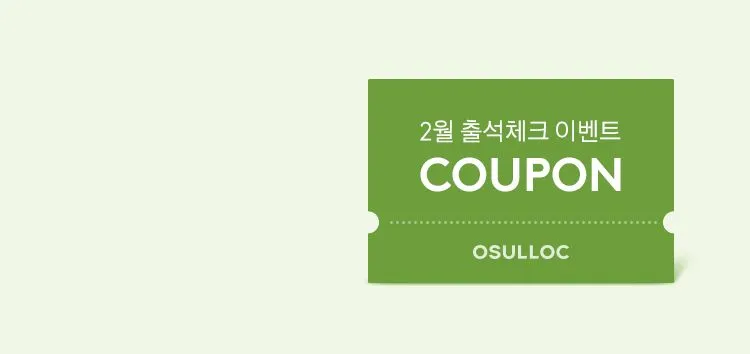
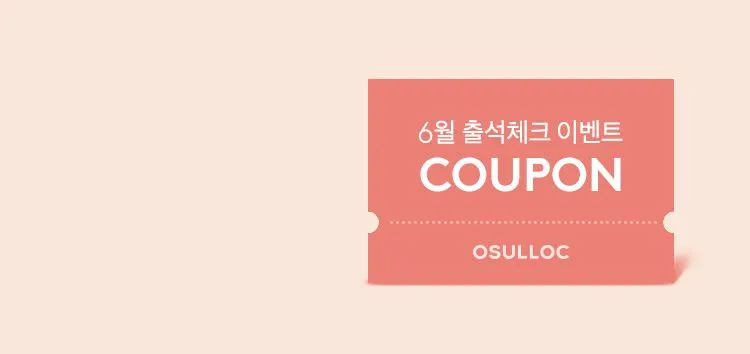
k

Changed region(s): [[0.46, 0.2175, 0.9507, 0.8079]]

diff --git a/PP/index.html b/PP/index.html
@@ -128,11 +128,11 @@
 									<a href="../07.moksha/index.html" target="_blank">사이트링크</a>
 									<a href="https://github.com/angryjamu/myPJ/tree/main/07.moksha" target="_blank">깃허브</a>
 								</section>
-								<!-- <section>
+								<section>
 									<span class="icon solid major fa-code"></span>
-									<h3>Aliquam urna dapibus</h3>
+									<h3>오설록</h3>
 									<p>Phasellus convallis elit id ullam corper amet et pulvinar. Duis aliquam turpis mauris, sed ultricies erat dapibus.</p>
-								</section> -->
+								</section>
 							</div>
 							<!-- <ul class="actions">
 								<li><a href="generic.html" class="button">Learn more</a></li>

diff --git a/04.os/index.html b/04.os/index.html
@@ -263,8 +263,8 @@
                 <div class="BannerCheck">
                     <a href><img src="images/check.webp" alt="출석체크">
                     <div class="text_box">
-                        <p class="text01">2월 출석체크</p>
-                        <p class="text02">02.01 - 02.29</p>
+                        <p class="text01">6월 출석체크</p>
+                        <p class="text02">06.01 - 06.30</p>
                     </div>
                     </a>
                 </div>
